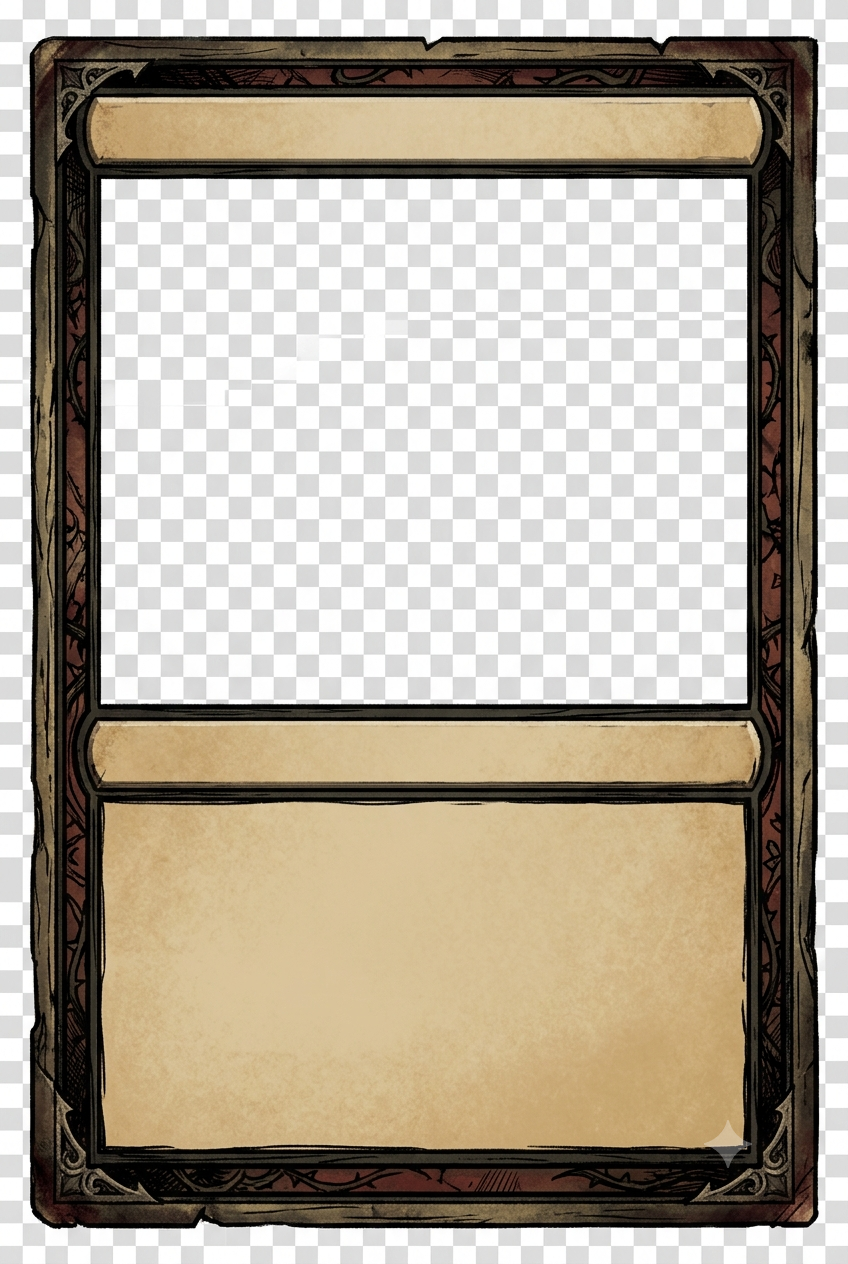
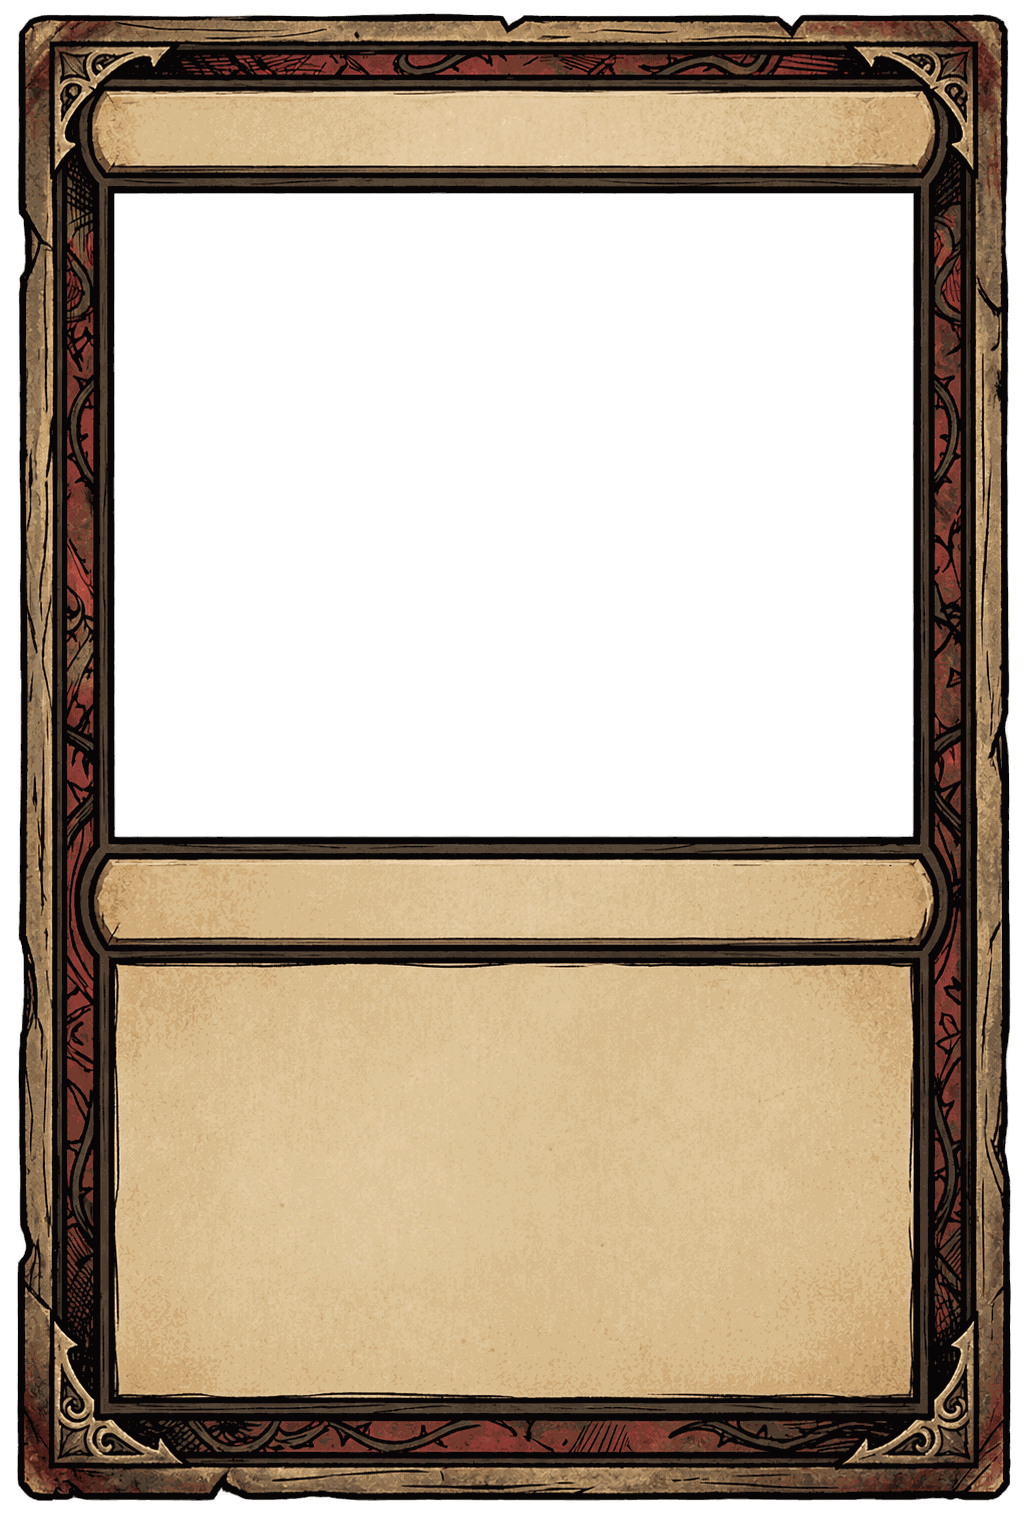
feat(taller): marco por defecto nuevo
Sustituido images/marco.png por el marco ilustrado nuevo. Misma proporcion
que el anterior (1:1.491) y la ventana de ilustracion transparente, que es
lo que espera el taller.

Comprimido a paleta de 256 colores: de 1.801 a 277 KB con una diferencia
media de 1,58 sobre 255 — invisible, comprobado comparando el degradado del
cuadro de texto y una esquina con filigrana. Se carga en cada visita, no
tiene sentido servir 1,8 MB.

Y un arreglo que hacia falta para poder cambiar de marco: las zonas
(ventana, titulo, texto, atributos, pie) se detectaban SOLO la primera vez y
despues se respetaba el encaje guardado. Bien para no machacar el ajuste
fino, pero al sustituir el dibujo las zonas viejas dejan de cuadrar y no
habia forma de notarlo. Ahora se guarda una huella del marco instalado
—medidas mas un muestreo del canal alfa— y si cambia se vuelven a detectar.
Asi el siguiente cambio de marco no exige acordarse de nada.

diff --git a/public/taller/js/app.js b/public/taller/js/app.js
@@ -1053,6 +1053,8 @@
   const FRAME_WINDOW = { x:LAYOUT_DEF.winX, y:LAYOUT_DEF.winY, w:LAYOUT_DEF.winW, h:LAYOUT_DEF.winH };
 
   const LS_LAYOUT = 'taponazo.taller.marcos.v1';
+  // Huella del marco por defecto ya instalado, para saber si ha cambiado.
+  const LS_MARCO = 'taponazo.taller.marco.huella';
   let LAYOUTS = {};
   try { LAYOUTS = JSON.parse(localStorage.getItem(LS_LAYOUT) || '{}'); } catch { LAYOUTS = {}; }
   // Migración suave: los defaults antiguos del pie (1022 del DEF, 1030 del
@@ -2222,6 +2224,23 @@
     }
   })();
 
+  /**
+   * Huella del marco instalado: medidas mas un muestreo grueso del canal
+   * alfa. No hace falta que sea criptografica — solo tiene que cambiar
+   * cuando cambie el dibujo, para volver a detectar las zonas.
+   */
+  function huellaMarco(lienzo){
+    const w = lienzo.width, h = lienzo.height;
+    const cv = document.createElement('canvas');
+    cv.width = 24; cv.height = 32;
+    const g2 = cv.getContext('2d');
+    g2.drawImage(lienzo, 0, 0, 24, 32);
+    const d = g2.getImageData(0, 0, 24, 32).data;
+    let acc = 0;
+    for (let i = 3; i < d.length; i += 4) acc = (acc * 31 + d[i]) % 1000000007;
+    return `${w}x${h}:${acc}`;
+  }
+
   // ---- marco por defecto: images/marco.png se instala solo al arrancar y
   // el estilo pasa a 'marco'. Decisión de diseño de Iván: la carta nace con
   // su marco ilustrado, no con el procedural. Si el fichero no está (p. ej.
@@ -2233,10 +2252,18 @@
       const out = stripBackground(im);   // el PNG puede traer el damero pintado
       if (out) lienzo = out.canvas;
       installFrame('marco:todos', lienzo);
-      // Autodetectar zonas SOLO la primera vez: si ya hay un encaje guardado,
-      // respetarlo — antes se machacaba el ajuste fino en cada recarga.
-      if (!LAYOUTS['marco:todos']){
+      // Autodetectar zonas la primera vez Y cada vez que cambie el marco:
+      // el encaje guardado pertenece a UN dibujo concreto, asi que si se
+      // sustituye images/marco.png las zonas viejas ya no cuadran. Se guarda
+      // una huella del marco instalado para notarlo sin tener que acordarse
+      // de subir ningun numero de version a mano.
+      const huella = huellaMarco(lienzo);
+      let previa = null;
+      try { previa = localStorage.getItem(LS_MARCO); } catch {}
+
+      if (!LAYOUTS['marco:todos'] || previa !== huella){
         applyZones(FRAMES.get('marco:todos'));
+        try { localStorage.setItem(LS_MARCO, huella); } catch {}
       } else {
         loadLayoutFields();
       }
